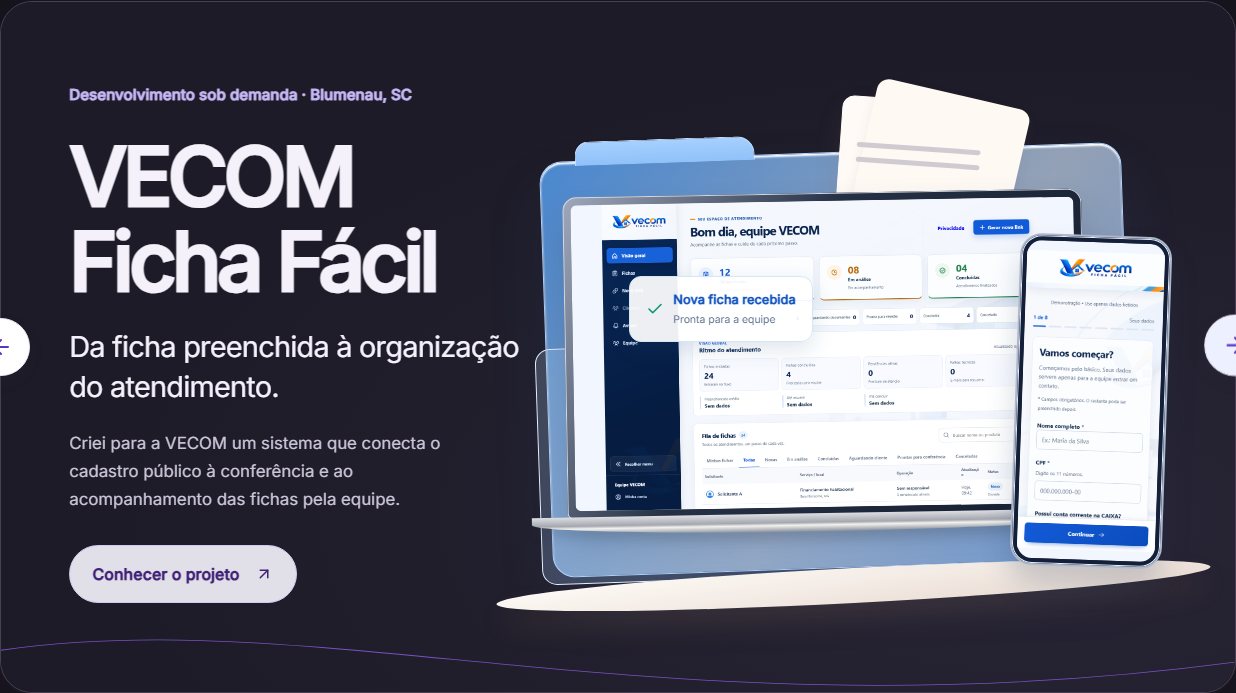
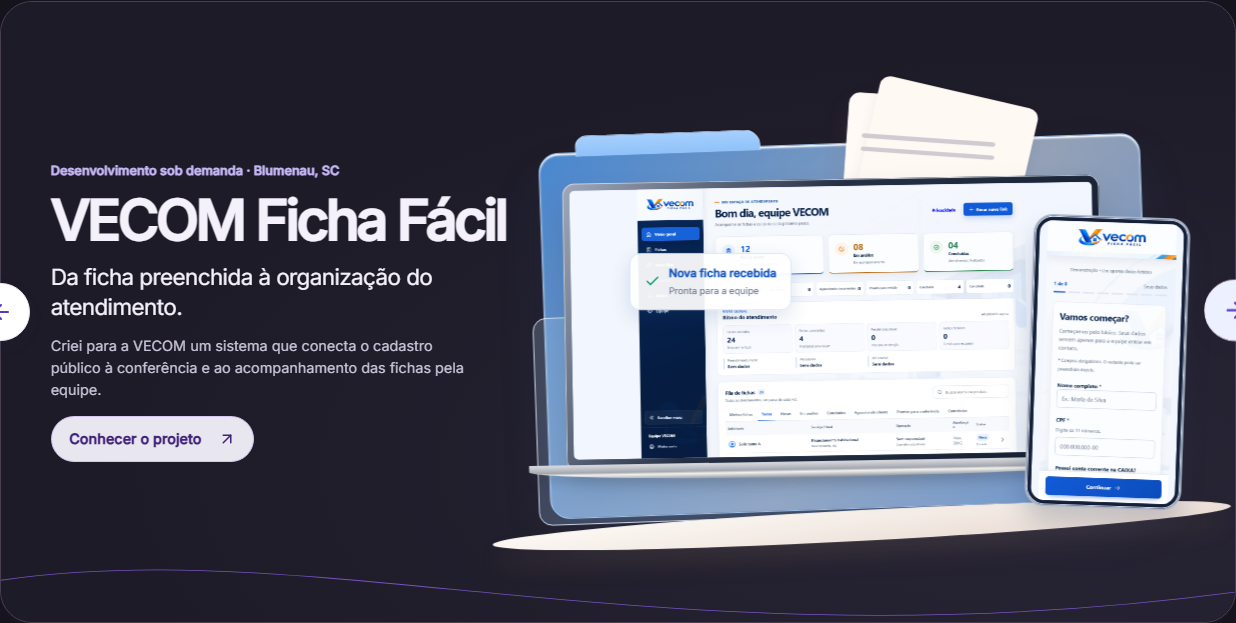
fix(projects): fit desktop showcase heading and card in viewport

diff --git a/src/components/projects/stage-proof/StageProof.tsx b/src/components/projects/stage-proof/StageProof.tsx
@@ -91,7 +91,9 @@ export default function StageProof({ locale, embedded = false }: { locale: Local
         const incoming = panelIndex === next;
         if (!incoming && snapshots[panelIndex].every(pose => Number(pose.opacity) < .001)) return;
         const depth = Number(item.dataset.layer);
-        const distance = width * (1.18 + depth * .12);
+        const scene = item.closest<HTMLElement>('[data-stage-scene]');
+        const scale = scene ? scene.getBoundingClientRect().width / scene.offsetWidth : 1;
+        const distance = width * (1.18 + depth * .12) / Math.max(scale, .1);
         const offstage = (sign: number) => `translate3d(${sign * distance}px,${depth > 1 ? 22 : 0}px,0px) rotate(${sign * (depth > 1 ? 9 : 0)}deg) scale(${depth > 1 ? .92 : .98})`;
         const start = incoming && !interrupted ? { transform: offstage(direction), opacity: '1' } : snapshots[panelIndex][index];
         const end = { transform: incoming ? identity : offstage(-direction), opacity: '1' };
@@ -160,7 +162,7 @@ export default function StageProof({ locale, embedded = false }: { locale: Local
             <p data-layer="0.9" className={styles.tagline}>{project.title[en ? 1 : 0]}</p>
             <p data-layer="0.95" className={styles.description}>{project.description[en ? 1 : 0]}</p>
             <div data-layer="1" className={styles.actions}><a className={styles.cta} href={`/${locale}/projetos/${project.slug}`} onClick={event=>{if(embedded && isPlainPrimaryClick(event)) captureCaseReturnPosition({locale,caseSlug:project.slug,homePath:`/${locale}`});}}>{en ? 'Explore the project' : 'Conhecer o projeto'} <ArrowUpRight size={18} /></a></div>          </div>
-          <div className={styles.scene} aria-hidden="true">
+          <div className={styles.scene} data-stage-scene aria-hidden="true">
             {stageProjects.indexOf(project) > 1 ? <AdditionalStageArt project={stageProjects.indexOf(project)} locale={locale}/> : project.slug === "docfacil" ? <>
               <div className={styles.plinth} data-layer="1.05"><div /></div>
               <div className={styles.document} data-layer="1.2"><div className={styles.paper} data-doc-paper>

diff --git a/src/components/projects/stage-proof/StageProof.module.css b/src/components/projects/stage-proof/StageProof.module.css
@@ -50,3 +50,31 @@
 :global(.dark) .embedded .kind{color:#c5b6f5}
 :global(.dark) .embedded .cta{background:#f8f5ff;color:#402278;border-color:#d5c6f3}
 .actions{display:flex;align-items:center;gap:1rem;flex-wrap:wrap}
+@media(min-width:1000px){
+ .embedded .stage{min-height:clamp(430px,calc(100svh - 250px),620px);margin:.5rem 0 1rem}
+ .embedded .panel{padding:1.5rem 4%;grid-template-columns:44% 56%}
+ .embedded .scene{height:530px;transform:scale(.88);width:113.636%;margin-left:-6.818%}
+ .embedded .copy h3{font-size:clamp(2.1rem,5.6svh,3.9rem);margin-bottom:.8rem}
+ .embedded .kind{font-size:.8rem;margin-bottom:.7rem}
+ .embedded .tagline{font-size:clamp(1.05rem,2.5svh,1.4rem);line-height:1.35;margin-bottom:.8rem}
+ .embedded .description{font-size:.9rem;line-height:1.5;margin-bottom:1rem;max-width:46ch}
+ .embedded .cta{font-size:.9rem;padding:.7rem 1.1rem}
+}
+@media(min-width:1000px) and (max-height:800px){
+ .embedded .scene{transform:scale(.76);width:131.578%;margin-left:-15.789%}
+}
+@media(min-width:1000px) and (max-height:680px){
+ .embedded .scene{transform:scale(.68);width:147.058%;margin-left:-23.529%}
+ .embedded .copy h3{font-size:2.1rem}
+ .embedded .description{font-size:.85rem;line-height:1.45}
+}
+@media(min-width:1000px) and (max-height:680px){
+ .embedded .panel{padding:1rem 4%}
+ .embedded .kind{font-size:.75rem;margin-bottom:.5rem}
+ .embedded .description{font-size:.8rem;line-height:1.4;margin-bottom:.75rem}
+ .embedded .tagline{font-size:1rem;margin-bottom:.6rem}
+ .embedded .copy h3{margin-bottom:.6rem}
+}
+@media(min-width:1000px){
+ .embedded .panel{grid-template-rows:minmax(0,1fr)}
+}

diff --git a/css/components/projects-editorial.css b/css/components/projects-editorial.css
@@ -296,3 +296,19 @@
 
 .projects-editorial__heading { container-type: inline-size; }
 .projects-editorial__heading .editorial-display { font-size: clamp(2.3rem, 6cqi, 6rem); }
+/* Desktop showcase: title and complete card share the viewport. */
+@media(min-width:1000px){
+ .projects-editorial[data-project-showcase="stage"]{padding-block:clamp(1.25rem,3svh,2.5rem) 2rem;scroll-margin-top:5rem}
+ .projects-editorial[data-project-showcase="stage"] .projects-editorial__heading{grid-template-columns:minmax(0,1.1fr) minmax(0,1fr);align-items:center;gap:2rem;margin-bottom:1.25rem}
+ .projects-editorial[data-project-showcase="stage"] .editorial-display{font-size:clamp(2rem,3.2vw,3.5rem);line-height:1.05}
+ .projects-editorial[data-project-showcase="stage"] .editorial-display em{display:inline}
+ .projects-editorial[data-project-showcase="stage"] .projects-editorial__intro{font-size:1rem;line-height:1.5}
+}
+@media(min-width:1000px) and (max-height:680px){
+ .projects-editorial[data-project-showcase="stage"]{scroll-margin-top:4rem;padding-top:1rem}
+ .projects-editorial[data-project-showcase="stage"] .editorial-display{font-size:1.9rem}
+ .projects-editorial[data-project-showcase="stage"] .projects-editorial__heading{margin-bottom:1rem}
+}
+@media(min-width:1000px){
+ .projects-editorial[data-project-showcase="stage"] .editorial-display em{margin-inline-start:.16em}
+}

diff --git a/docs/redesign-ruon/planejamento-projetos/v2-vitrine-palco/README.md b/docs/redesign-ruon/planejamento-projetos/v2-vitrine-palco/README.md
@@ -49,3 +49,9 @@ Validação: TypeScript; 74 testes em 19 arquivos; 15 percursos home/case/retorn
 Ajuste aprovado: link público da CKF fica somente na página dedicada, no botão 'Abrir o site da CKF' da abertura. Removido do card da vitrine. Navegação home → case → retorno, destino e abertura em nova aba conferidos no navegador; TypeScript passou.
 
 Revisão integrada e build local concluídos após os últimos aceites: [entrega C10](../c10-handoff.md). Build para revisão em http://localhost:3067/pt-BR#projetos. O histórico acompanha a seleção e movimento reduzido elimina snapshots entre páginas. Sem publicação remota.
+
+## Ajuste desktop após preview
+
+Título e card passam a compartilhar o enquadramento da tela: cabeçalho em uma linha quando há largura, espaçamento vertical menor e altura do palco vinculada à altura útil do viewport. Tipografia e escala das artes são proporcionais; a grade interna permite centralizar a arte sem conservar uma linha mínima de 530 px em cards menores. A distância de saída considera a escala da cena para preservar a saída completa pela borda. Regras restritas à home a partir de 1000 px de largura.
+
+Verificação em 1920 × 1080, 1440 × 900, 1366 × 768 e 1280 × 600, com os cinco projetos: título visível, card inteiro acima do limite inferior da tela, CTA e área da arte contidos e sem overflow horizontal. Script `stage-viewport.cjs`, capturas e resultados em `docs/redesign-ruon/evidence/stage-viewport/`. TypeScript e smoke de navegação com movimento normal também verificados.
